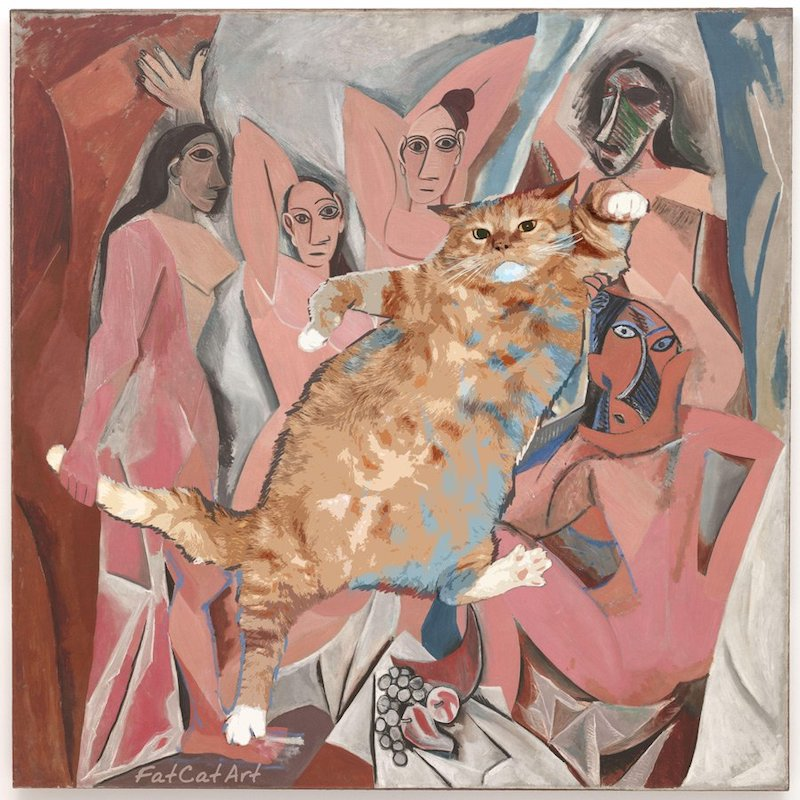
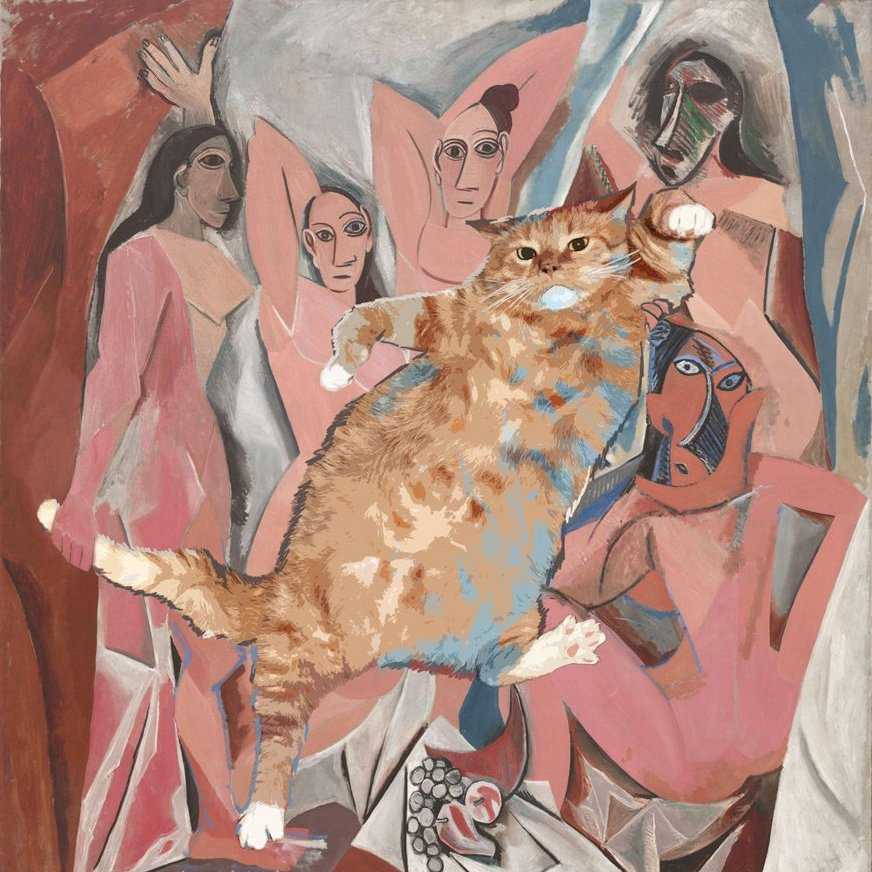
feat: add controls animation (Sun, Oct 17, 2021 04:23:07 PM)

diff --git a/cssMemSlider/styles.css b/cssMemSlider/styles.css
@@ -9,11 +9,10 @@
 html, 
 body {
     width: 100vw;
-    height: 100vh;
+    min-height: 100vh;
     font-family: 'Merriweather Sans', sans-serif;
     overscroll-behavior: none;
     font-size: 10px;
-    /* line-height: 1em; */
 }  
 
 img {
@@ -23,27 +22,32 @@ img {
 body {
     display: flex;
     align-items: center;
-    background: linear-gradient(to top, rgb(128, 127, 139), rgb(223, 221, 226)) ;
-    color: rgb(240, 228, 207);
-    font-weight: 400;
-    letter-spacing: 0.12rem;
+    background: linear-gradient(to top, #e1dff1, #e2e2eb 50%, #fff);
+    color: rgb(56, 51, 46);
+    font-weight: 200;
+    letter-spacing: 0.1rem;
 }
 
 .wrapper {
-    margin: 0 auto;
-    /* background-color: #fff; */
+    margin: 2em auto;
+    background-color: #ffffff;
     width: 80rem;
-    max-width: 80%;
+    max-width: 90%;
+    box-shadow: 0 0 1.2rem #b6afc0;
+    padding: 1.5em;
+    overflow: hidden;
+}
+
+@media screen and (max-width: 1440px) {
+    .wrapper {
+        width: 67rem;
+    } 
 }
 
 .slider {
     width: 100%;
-    /* margin: 2rem; */
     overflow: hidden;
     display: flex;
-    /* box-shadow: 0 0 1rem rgb(85, 83, 83); */
-   outline: 0.3rem solid rgb(204, 200, 200);
-    /* border-radius: 0.5rem; */
 }
 
 .slide {
@@ -52,11 +56,10 @@ body {
     padding-top: 100%;
     order: 1;
     background-repeat: no-repeat;
-    background-size: contain;
+    background-size: cover;
     opacity: 0;
     transform: scale(1.02);
     transition: transform 0.5s ease-in-out, opacity 0.3s ease-in-out, order 0.3s ease-in-out;
-
 }
 
 .bottom-container {
@@ -72,6 +75,7 @@ body {
 }
 
 .text__item {
+    align-self: center;
     padding-left: 1rem;
     flex-basis: 100%;
     flex-shrink: 0;
@@ -86,7 +90,6 @@ body {
     display: flex;
     justify-content: center;
     align-items: center;
-    
 }
 
 input {
@@ -94,47 +97,51 @@ input {
 }
 
 p {
-    font-size: 3.5rem;
+    font-size: 2.5rem;
 }
 
-.slide1 { background-image: url(./img/Klimt-Adele_Bloch-Bauer_I_cat-w.jpg); }
+.slide1 { background-image: url(./img/Klimt_-_The_Kiss-cat-w.jpg); }
 .slide2 { background-image: url(./img/Caillebotte-Paris-Street-Rainy-Day-cat-w-2.jpg); }
 .slide3 { background-image: url(./img/Picasso_Les-Demoiselles-dAvignon-cat.jpg); }
 .slide4 { background-image: url(./img/Van_Gogh_-_Sunflowers-cat-w.jpg); }
-.slide5 { background-image: url(./img/Velazquez-Meninas-cat-det.jpg); }
+.slide5 { background-image: url(./img/Velazquez-Meninas-cat-w.jpg); }
 
 label {
 	cursor: pointer;
 	display: flex;
     justify-content: center;
     align-items: center;
-	height: 4rem;
-	width: 4rem;
-	/* border-radius: 50%; */
+	height: 3rem;
+	width: 3rem;
 }
 
 label:hover .fake-input{
-    background-color: rgb(104, 125, 172);
+    background-color: rgb(224, 218, 230);
 }
 
 .fake-input {
-    width: 2em;
-    height: 2em;
-    border: 2px solid #ddd;
-    background: transparent;
+    width: 1.7rem;
+    height: 1.7rem;
+    border: 0.1rem solid rgb(100, 97, 121);
+    background: rgb(255, 255, 255);
     transform: scale(1);
     transition: all 0.3s ease-in-out;
+    border-radius: 50%;
     
 }
 
+label:active .fake-input {
+    transform: scale(0.85);
+}
 
 #slide1:checked ~ .bottom-container .fake-input1,
 #slide2:checked ~ .bottom-container .fake-input2,
 #slide3:checked ~ .bottom-container .fake-input3,
 #slide4:checked ~ .bottom-container .fake-input4,
 #slide5:checked ~ .bottom-container .fake-input5 {
-    transform: scale(1.3);
-	background: #ddd;
+    transform: scale(1.2);
+	background: rgb(104, 90, 129);
+    border: 2px solid rgb(104, 90, 129);
 }
 
 #slide1:checked ~ .slider > .slide1, 
@@ -148,10 +155,44 @@ label:hover .fake-input{
 }
 
 #slide1:checked ~ .bottom-container .text1,
-#slide2:checked ~ .bottom-container .text2 {
+#slide2:checked ~ .bottom-container .text2,
+#slide3:checked ~ .bottom-container .text3,
+#slide4:checked ~ .bottom-container .text4,
+#slide5:checked ~ .bottom-container .text5 {
     order: 0;
     opacity: 1;
     transform: scale(1);
+}
+
+@media screen and (max-width: 678px) {
+    .bottom-container {
+       flex-wrap: wrap;
+       justify-content: center;
+    }
+    
+    .text {
+        flex-basis: 100%;
+        margin-bottom: 0.3rem;
+    }
+
+    p {
+        text-align: center;
+        font-size: 2em;
+    }
+
+    .controls {
+        flex-basis: 100%;
+    }
+
+    label {
+        height: 2rem;
+	    width: 2rem;
+    }
+
+    .fake-input {
+        height: 1.3rem;
+        width: 1.3rem;
+    }
 }
 
 

diff --git a/cssMemSlider/index.html b/cssMemSlider/index.html
@@ -30,11 +30,11 @@
         </div>
         <div class="bottom-container">
             <div class="text">
-                <p class="text__item text1">Love is gold</p>
+                <p class="text__item text1">Do Cats Like Human Kisses?</p>
                 <p class="text__item text2">Where is a cheese shop?</p>
-                <p class="text__item text3"></p>
-                <p class="text__item text4"></p>
-                <p class="text__item text5"></p>
+                <p class="text__item text3">Picasso or Picatso?</p>
+                <p class="text__item text4">What if sunflowers are little ginger kittens?</p>
+                <p class="text__item text5">Las Meowninas</p>
             </div>
             <div class="controls">
                 <label for="slide1">
